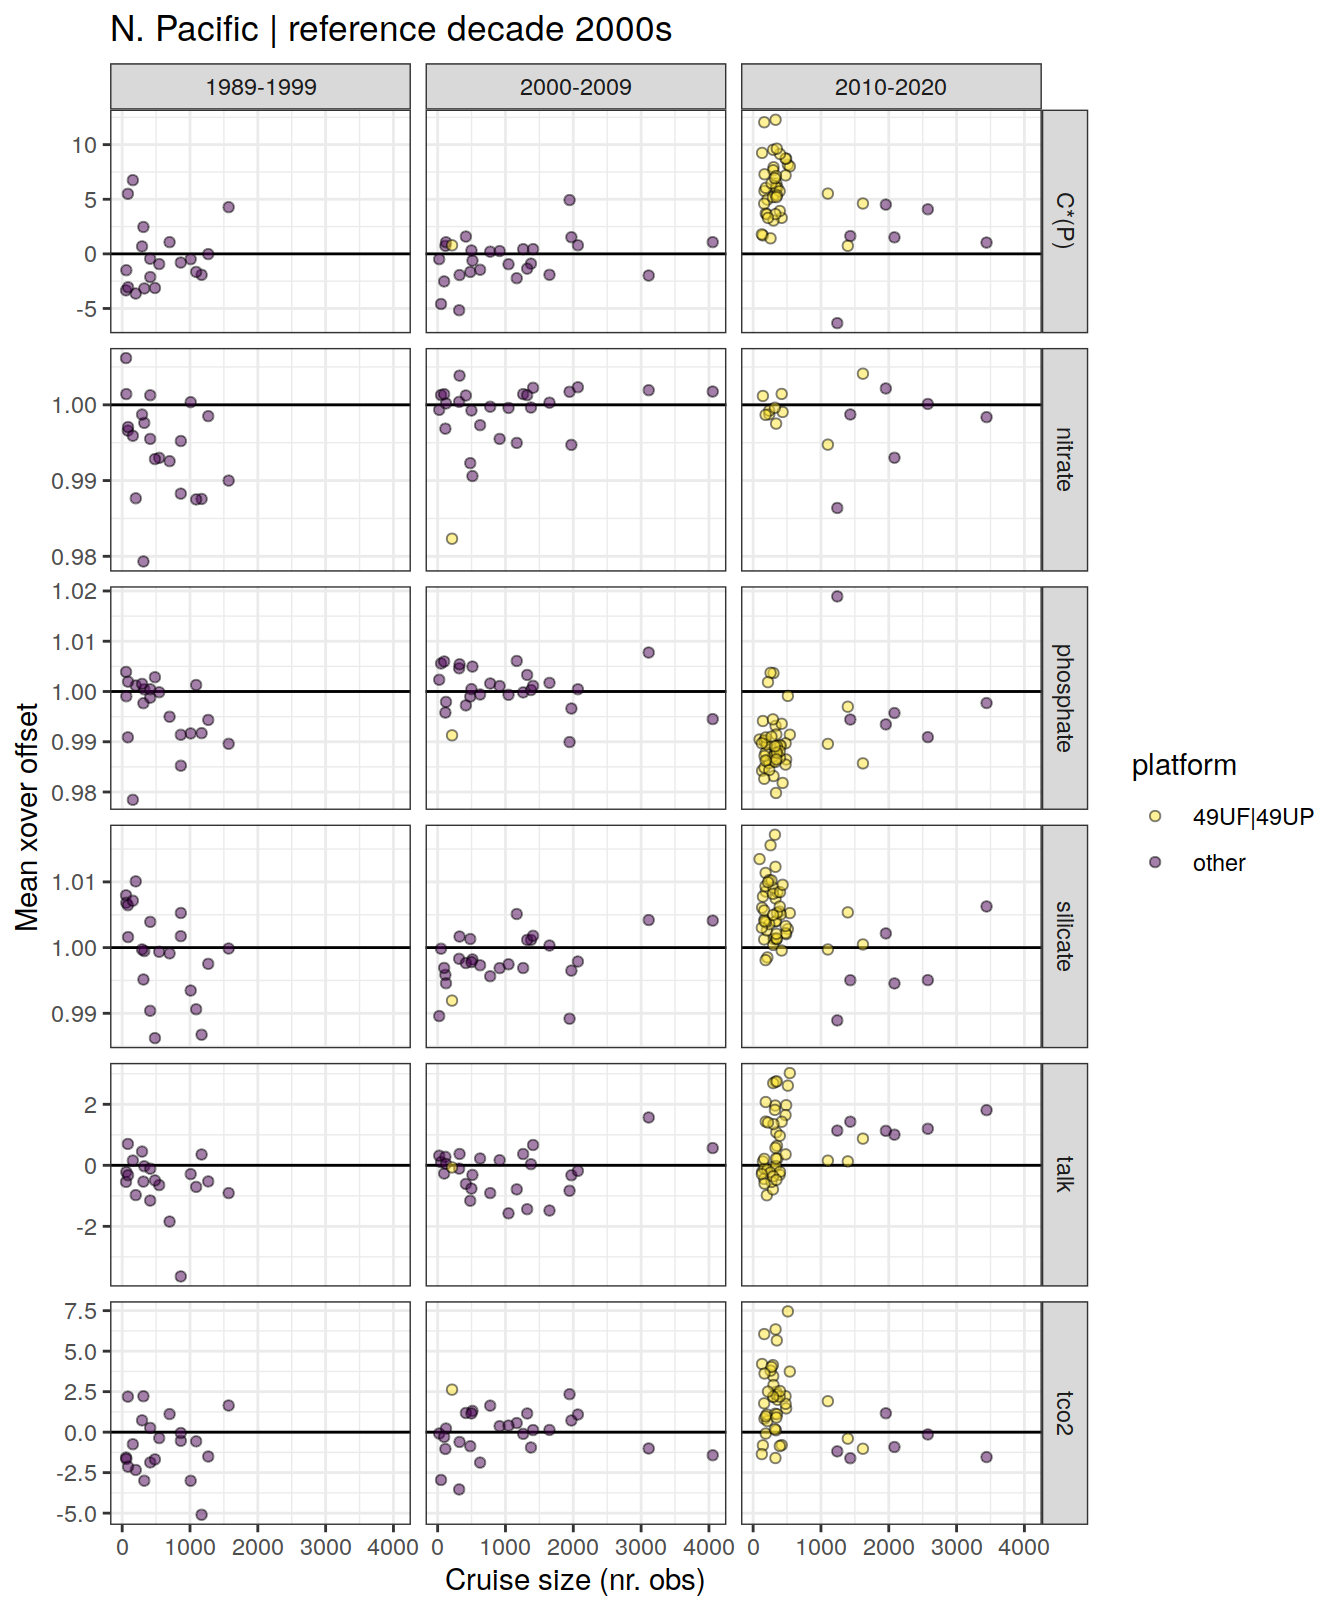
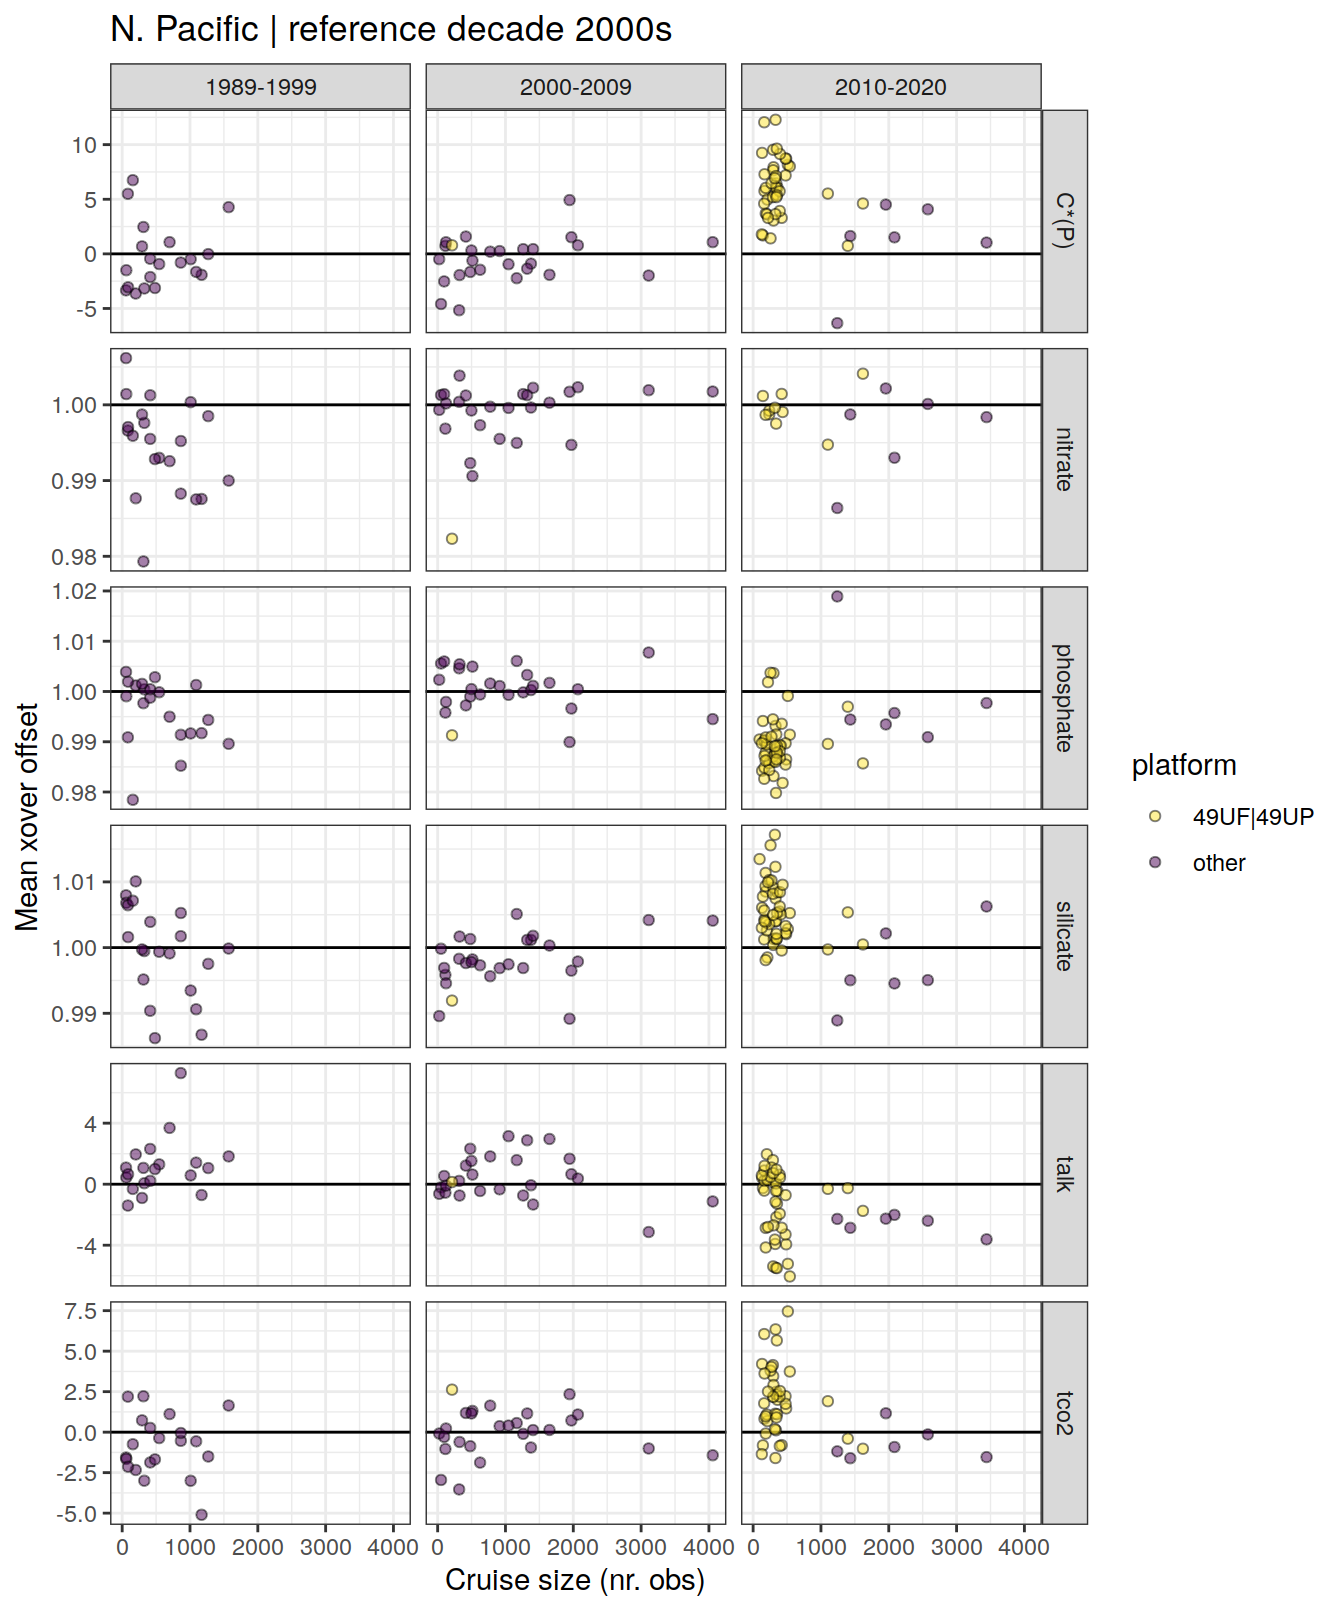
Build site.

Changed region(s): [[0.0625, 0.6514, 0.7812, 0.8065]]

diff --git a/docs/read_GLODAPv2_2021.html b/docs/read_GLODAPv2_2021.html
@@ -452,7 +452,7 @@ div.tocify {
 
 <h1 class="title toc-ignore">GLODAPv2_2021</h1>
 <h4 class="author">Jens Daniel Müller</h4>
-<h4 class="date">14 June, 2022</h4>
+<h4 class="date">15 June, 2022</h4>
 
 </div>
 
@@ -477,7 +477,7 @@ div.tocify {
 <div class="tab-content">
 <div id="summary" class="tab-pane fade in active">
 <p>
-<strong>Last updated:</strong> 2022-06-14
+<strong>Last updated:</strong> 2022-06-15
 </p>
 <p>
 <strong>Checks:</strong> <span class="glyphicon glyphicon-ok text-success" aria-hidden="true"></span> 7 <span class="glyphicon glyphicon-exclamation-sign text-danger" aria-hidden="true"></span> 0
@@ -568,16 +568,16 @@ This reproducible <a href="https://rmarkdown.rstudio.com">R Markdown</a> analysi
 <div class="panel panel-default">
 <div class="panel-heading">
 <p class="panel-title">
-<a data-toggle="collapse" data-parent="#workflowr-checks" href="#strongRepositoryversionstrongahrefhttpsgithubcomjensdanielmuelleremlrobspreprocessingtreefcf421c9c560ee5550e42b351e2f86eab4aea8eftargetblankfcf421ca"> <span class="glyphicon glyphicon-ok text-success" aria-hidden="true"></span> <strong>Repository version:</strong> <a href="https://github.com/jens-daniel-mueller/emlr_obs_preprocessing/tree/fcf421c9c560ee5550e42b351e2f86eab4aea8ef" target="_blank">fcf421c</a> </a>
+<a data-toggle="collapse" data-parent="#workflowr-checks" href="#strongRepositoryversionstrongahrefhttpsgithubcomjensdanielmuelleremlrobspreprocessingtreeddc047ab03c6217fe4bed998a7a7a1fff8371417targetblankddc047aa"> <span class="glyphicon glyphicon-ok text-success" aria-hidden="true"></span> <strong>Repository version:</strong> <a href="https://github.com/jens-daniel-mueller/emlr_obs_preprocessing/tree/ddc047ab03c6217fe4bed998a7a7a1fff8371417" target="_blank">ddc047a</a> </a>
 </p>
 </div>
[2 lines of base64/hex data omitted]
 <div class="panel-body">
 <p>
 Great! You are using Git for version control. Tracking code development and connecting the code version to the results is critical for reproducibility.
 </p>
 <p>
-The results in this page were generated with repository version <a href="https://github.com/jens-daniel-mueller/emlr_obs_preprocessing/tree/fcf421c9c560ee5550e42b351e2f86eab4aea8ef" target="_blank">fcf421c</a>. See the <em>Past versions</em> tab to see a history of the changes made to the R Markdown and HTML files.
+The results in this page were generated with repository version <a href="https://github.com/jens-daniel-mueller/emlr_obs_preprocessing/tree/ddc047ab03c6217fe4bed998a7a7a1fff8371417" target="_blank">ddc047a</a>. See the <em>Past versions</em> tab to see a history of the changes made to the R Markdown and HTML files.
 </p>
 <p>
 Note that you need to be careful to ensure that all relevant files for the analysis have been committed to Git prior to generating the results (you can use <code>wflow_publish</code> or <code>wflow_git_commit</code>). workflowr only checks the R Markdown file, but you know if there are other scripts or data files that it depends on. Below is the status of the Git repository when the results were generated:
@@ -586,6 +586,7 @@ Note that you need to be careful to ensure that all relevant files for the analy
 Ignored files:
     Ignored:    .Rhistory
     Ignored:    .Rproj.user/
+    Ignored:    analysis/figure/
     Ignored:    data/
     Ignored:    output/
 
@@ -626,6 +627,40 @@ Message
 </tr>
 </thead>
 <tbody>
+<tr>
+<td>
+Rmd
+</td>
+<td>
+<a href="https://github.com/jens-daniel-mueller/emlr_obs_preprocessing/blob/ddc047ab03c6217fe4bed998a7a7a1fff8371417/analysis/read_GLODAPv2_2021.Rmd" target="_blank">ddc047a</a>
+</td>
+<td>
+jens-daniel-mueller
+</td>
+<td>
+2022-06-15
+</td>
+<td>
+corrected back conversion from cstar_talk to talk
+</td>
+</tr>
+<tr>
+<td>
+html
+</td>
+<td>
+<a href="https://rawcdn.githack.com/jens-daniel-mueller/emlr_obs_preprocessing/1975474ad615a486e47c82f65e6c01f743d8241b/docs/read_GLODAPv2_2021.html" target="_blank">1975474</a>
+</td>
+<td>
+jens-daniel-mueller
+</td>
+<td>
+2022-06-14
+</td>
+<td>
+Build site.
+</td>
+</tr>
 <tr>
 <td>
 Rmd
@@ -54188,7 +54223,11 @@ jens-daniel-mueller
     parameter == &quot;cstar_tco2&quot; ~ &quot;tco2&quot;,
     parameter == &quot;cstar_total_phosphate&quot; ~ &quot;C*(P)&quot;,
     TRUE ~ parameter
-  ))
+  )) %&gt;% 
+  mutate(offset_adj_mean_weighted =
+           if_else(parameter == &quot;talk&quot;,
+                   -2 * offset_adj_mean_weighted,
+                   offset_adj_mean_weighted))
 
 hline_intercept_NPO_2010 &lt;-
   tibble(parameter = unique(xover_cruise_decade_all_NPO_2010$parameter)) %&gt;%
@@ -54212,6 +54251,43 @@ xover_cruise_decade_all_NPO_2010 %&gt;%
        x = &quot;Cruise size (nr. obs)&quot;) +
   facet_grid(parameter ~ decade_A, scales = &quot;free_y&quot;)</code></pre>
 <p><img src="figure/read_GLODAPv2_2021.Rmd/NPO_2010_decadal_crossover-1.png" width="672" style="display: block; margin: auto;" /></p>
+<p>
+<button type="button" class="btn btn-default btn-xs btn-workflowr btn-workflowr-fig" data-toggle="collapse" data-target="#fig-NPO_2010_decadal_crossover-1">
+Past versions of NPO_2010_decadal_crossover-1.png
+</button>
+</p>
+<div id="fig-NPO_2010_decadal_crossover-1" class="collapse">
+<div class="table-responsive">
+<table class="table table-condensed table-hover">
+<thead>
+<tr>
+<th>
+Version
+</th>
+<th>
+Author
+</th>
+<th>
+Date
+</th>
+</tr>
+</thead>
+<tbody>
+<tr>
+<td>
+<a href="https://github.com/jens-daniel-mueller/emlr_obs_preprocessing/blob/1975474ad615a486e47c82f65e6c01f743d8241b/docs/figure/read_GLODAPv2_2021.Rmd/NPO_2010_decadal_crossover-1.png" target="_blank">1975474</a>
+</td>
+<td>
+jens-daniel-mueller
+</td>
+<td>
+2022-06-14
+</td>
+</tr>
+</tbody>
+</table>
+</div>
+</div>
 <pre class="r"><code>xover_cruise_decade_all_NPO_2010 %&gt;%
   ggplot(aes(
     date_A,
@@ -54229,6 +54305,43 @@ xover_cruise_decade_all_NPO_2010 %&gt;%
        x = &quot;Cruise size (nr. obs)&quot;) +
   facet_grid(parameter ~ ., scales = &quot;free_y&quot;)</code></pre>
 <p><img src="figure/read_GLODAPv2_2021.Rmd/NPO_2010_decadal_crossover-2.png" width="672" style="display: block; margin: auto;" /></p>
+<p>
+<button type="button" class="btn btn-default btn-xs btn-workflowr btn-workflowr-fig" data-toggle="collapse" data-target="#fig-NPO_2010_decadal_crossover-2">
+Past versions of NPO_2010_decadal_crossover-2.png
+</button>
+</p>
+<div id="fig-NPO_2010_decadal_crossover-2" class="collapse">
+<div class="table-responsive">
+<table class="table table-condensed table-hover">
+<thead>
+<tr>
+<th>
+Version
+</th>
+<th>
+Author
+</th>
+<th>
+Date
+</th>
+</tr>
+</thead>
+<tbody>
+<tr>
+<td>
+<a href="https://github.com/jens-daniel-mueller/emlr_obs_preprocessing/blob/1975474ad615a486e47c82f65e6c01f743d8241b/docs/figure/read_GLODAPv2_2021.Rmd/NPO_2010_decadal_crossover-2.png" target="_blank">1975474</a>
+</td>
+<td>
+jens-daniel-mueller
+</td>
+<td>
+2022-06-14
+</td>
+</tr>
+</tbody>
+</table>
+</div>
+</div>
 <pre class="r"><code>rm(xover_cruise_decade_all_NPO_2010, hline_intercept_NPO_2010)</code></pre>
 <pre class="r"><code>parameter_print &lt;- c(&quot;cstar_tco2&quot;, &quot;cstar_talk&quot;, &quot;cstar_phosphate&quot;, &quot;cstar_nitrate&quot;)
 
